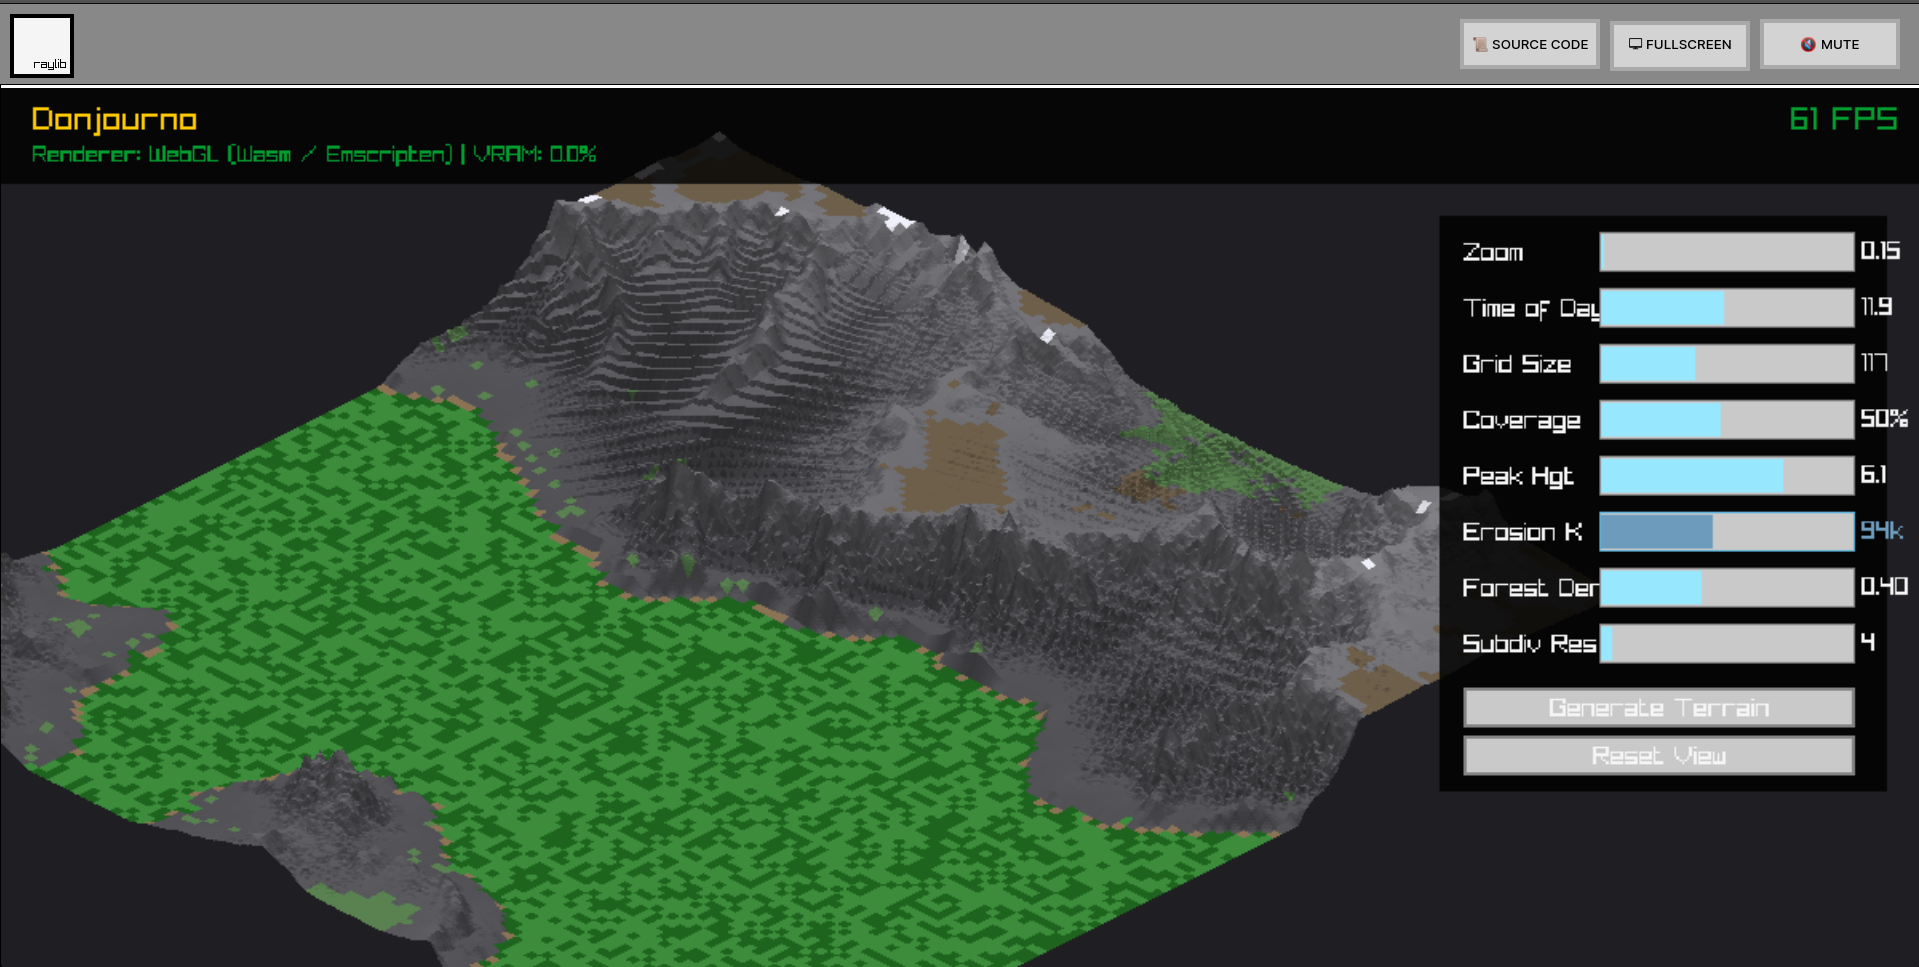
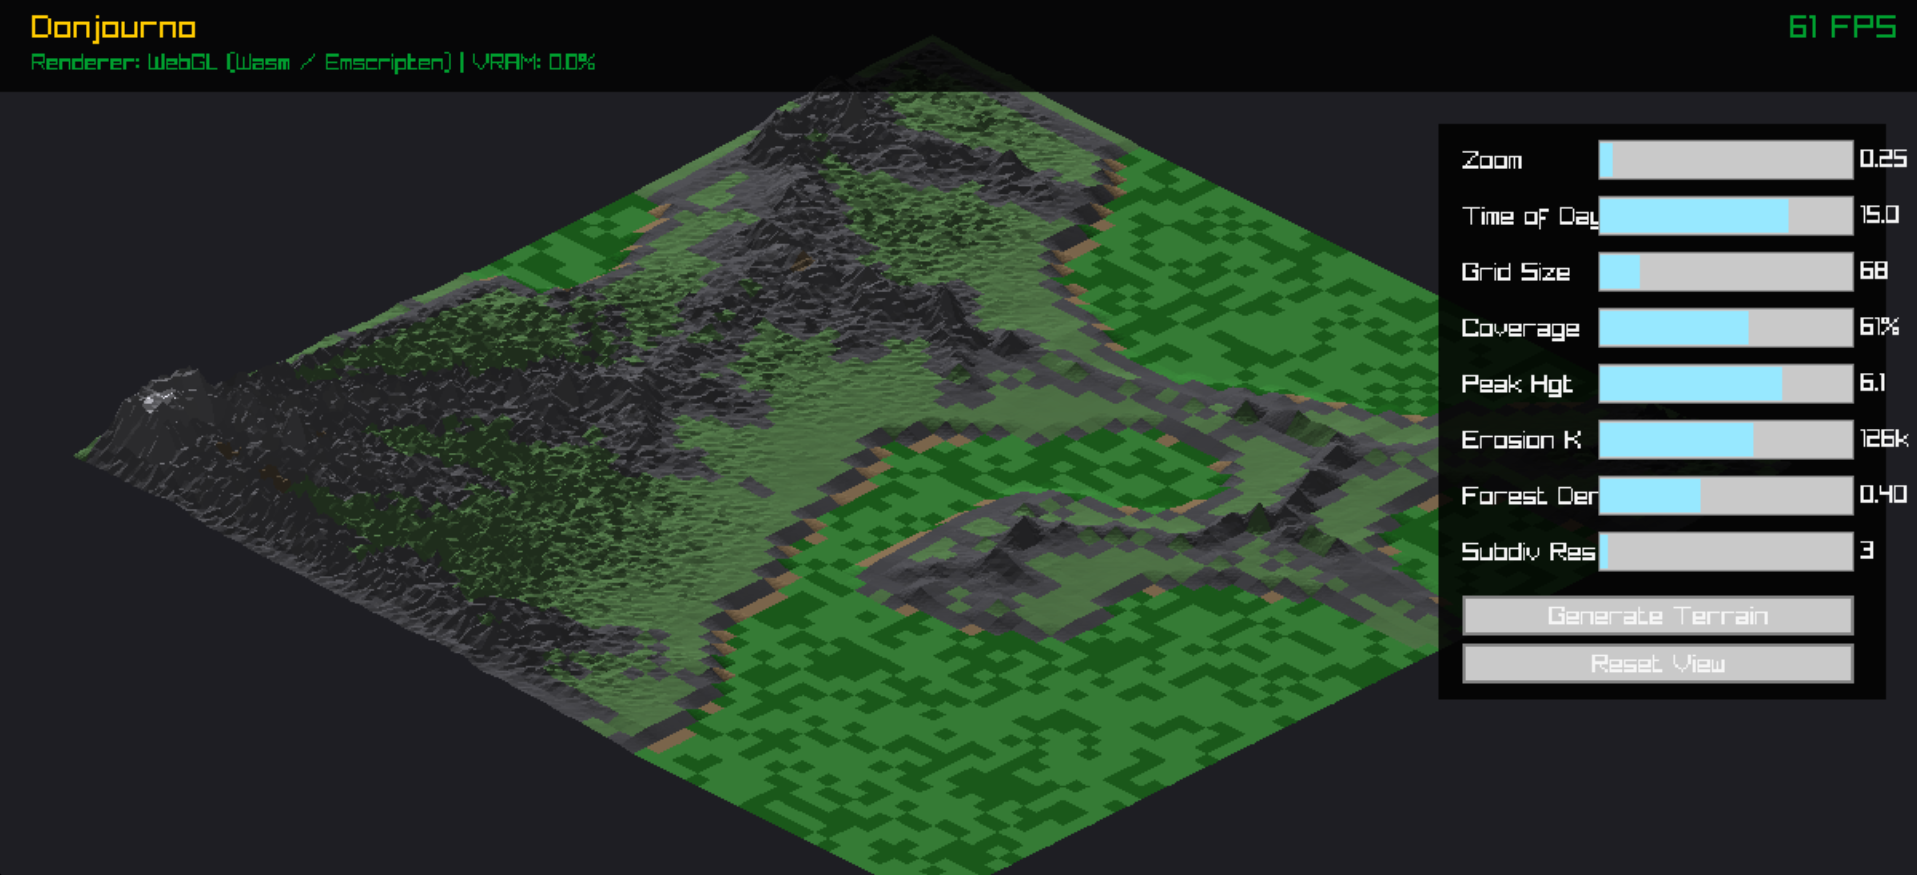
added gentle terrain falloff for hydraulic errosion post-processing to prevent ripped map borders when moutain suddenly abrupted by map border

diff --git a/src/generation/hybrid.hpp b/src/generation/hybrid.hpp
@@ -214,6 +214,43 @@ struct HybridTerrainGenerator {
         }
 
         // ═══════════════════════════════════════════════════════════════
+        // Phase 3.5: Edge falloff — iterative halve-and-floor at borders
+        // ═══════════════════════════════════════════════════════════════
+        // Instead of a uniform multiplier (which creates a flat-colored frame),
+        // we halve each cell's height with floor quantization for every step
+        // toward the border. This preserves the per-cell height variation so
+        // the coloring stays natural and semi-randomized at the edges.
+        {
+            int min_dim = std::min(w, h);
+
+            int margin = (min_dim < 128) ? 1 : 2;
+
+            // Quantization resolution: floor to nearest 0.05 before halving.
+            // This adds subtle stepping that breaks up uniform color banding.
+            constexpr float Q = 20.0f;  // 1/Q = 0.05 height resolution
+
+            for (int y = 0; y < h; ++y) {
+                for (int x = 0; x < w; ++x) {
+                    // Distance (in cells) from nearest edge
+                    int dist = std::min({x, w - 1 - x, y, h - 1 - y});
+                    
+                    if (dist <= margin) { // else Interior — untouched
+                        // Number of halving steps: more steps = closer to border
+                        int steps = margin - dist;
+                        float h_val = heightmap[y * w + x];
+
+                        for (int s = 0; s < steps; ++s) {
+                            // Halve with floor quantization: preserves per-cell variation
+                            h_val = std::floor(h_val * Q) / (2.0f * Q);
+                        }
+
+                        heightmap[y * w + x] = h_val;
+                    }
+                }
+            }
+        }
+
+        // ═══════════════════════════════════════════════════════════════
         // Phase 4: Write back to grid + classify
         // ═══════════════════════════════════════════════════════════════
         std::cout << "  Phase 4: Classifying terrain...\n";
@@ -227,7 +264,7 @@ struct HybridTerrainGenerator {
                 float height = std::max(heightmap[y * w + x], 0.0f);
                 cell.height = height;
 
-                if (pool_mask[y * w + x] && height > 0.1f) {
+                if (pool_mask[y * w + x]) {
                     cell.terrain = TerrainType::Mountain;
                 } else {
                     cell.terrain = TerrainType::Grass;
